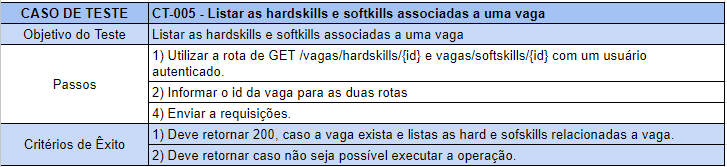
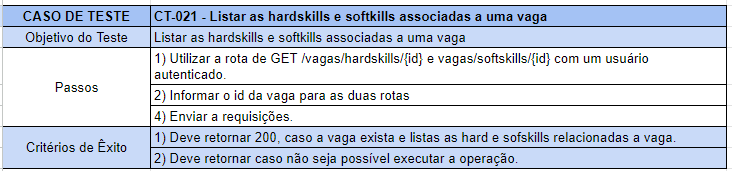
fix last commit

diff --git a/docs/09-Registro de Testes de Software.md b/docs/09-Registro de Testes de Software.md
@@ -26,13 +26,9 @@ Nesta seção constam os registros fotográficos dos testes descritos nos casos 
 
 ![image](img/testes/vaga/delete_vaga_softskill.png)
 
-## CT-005 - Listar as hardskills e softkills associadas a uma vaga
+## CT-005 - Editar dados cadastrais de usuários Recrutadores e Candidatos
 
-![image](img/testes/vaga/findAll_vaga_hardskill.png)
-
-![image](img/testes/vaga/findAll_vaga_softskill.png)
-
-![image](img/testes/vaga/findUnique_vaga.png)
+![image](img/testes/usuario/update_usuario.png)
 
 ## CT-006 - Listagem de vagas para usuários Candidatos
 
@@ -44,7 +40,7 @@ Nesta seção constam os registros fotográficos dos testes descritos nos casos 
 
 ## CT-008 - Criar uma nova hardskill
 
-![image](img/testes/hardskills/create_hard.png)
+![image](img/testes/hardskills/create_hardskill.png)
 
 ## CT-009 - Criar uma vaga caso o usuário seja do tipo Recrutador
 
@@ -111,3 +107,11 @@ Nesta seção constam os registros fotográficos dos testes descritos nos casos 
 ![image](img/testes/mensagem/findAll_mensagem.png)
 
 ![image](img/testes/mensagem/findUnique_mensagem.png)
+
+## CT-021 - Editar dados cadastrais de usuários Recrutadores e Candidatos
+
+![image](img/testes/vaga/findAll_vaga_hardskill.png)
+
+![image](img/testes/vaga/findAll_vaga_softskill.png)
+
+![image](img/testes/vaga/findUnique_vaga.png)
